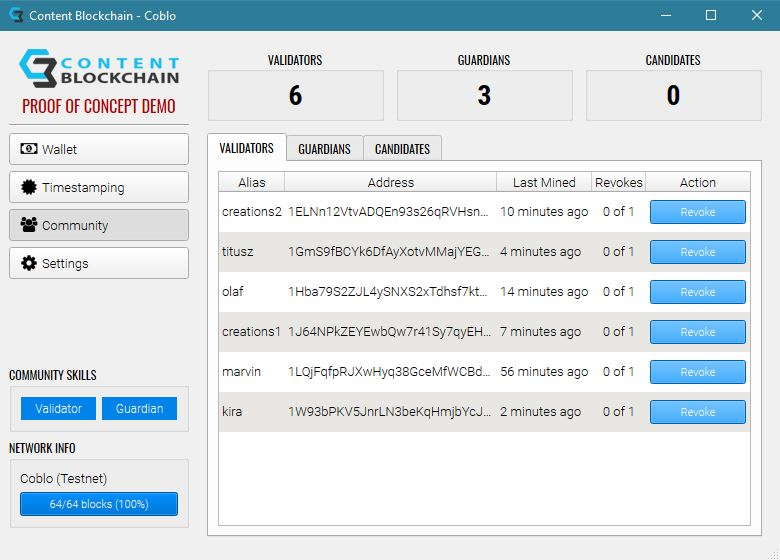
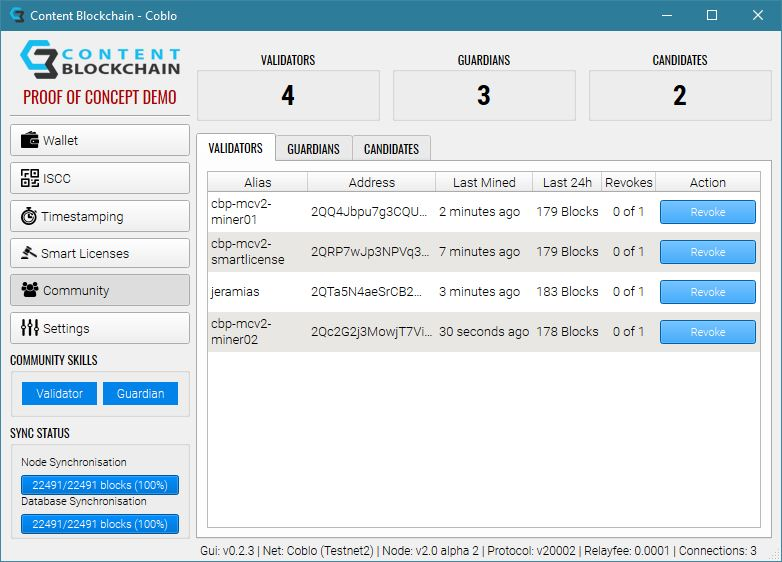
Update readme with new screenshots and feature descriptions. Up version.

diff --git a/setup.py b/setup.py
@@ -73,7 +73,7 @@ executables = [
 
 setup(
     name='Coblo',
-    version='0.3.0',
+    version='0.9.0',
     description='Content Blockchain Demo',
     options=options,
     executables=executables

diff --git a/README.md b/README.md
@@ -1,4 +1,4 @@
-# Content Blockchain GUI Prototype
+# Content Blockchain GUI Prototype v0.9.0
 
 [![Build status](https://ci.appveyor.com/api/projects/status/oue3ndgwshvc9l4e/branch/develop?svg=true)](https://ci.appveyor.com/project/alemenke/gui-demo/branch/develop)
 
@@ -18,6 +18,8 @@ and participate in testing the plattform. It allows you to:
 - test the experimental voting based consensus
 - send and receive native blockchain coins
 - timestamp content on the blockchain
+- search, create and register ISCC content identifiers
+- send and receive smart license tokens
 
 An installable version is currently available for 64-Bit Windows.
 You can download it [here](https://github.com/coblo/gui-demo/releases/download/v0.2.1/Coblo-0.2.1-win.msi).
@@ -33,18 +35,37 @@ Please report any issues at [https://github.com/coblo/gui-demo/issues](https://g
 **Wallet**
 
 Content is registered via transactions that are replicated and stored on the
-blockchain. Infrastructure providers are rewarded with tokens for their 
-services. The wallet screen shows your token balance and transaction history.
-You may exchange tokens with other participants.
+blockchain. Infrastructure providers are rewarded with native currency (CBL) 
+for their services. The wallet screen shows your balance and transaction 
+history. You may exchange CBL with other participants.
+
+<img align="left" width="150" src="docs/screenshot_iscc.jpg?raw=true">
+
+**ISCC**
+
+The [ISCC](http://iscc.codes) is an open and decentralized digital media 
+identifier. You can search for content registered with an ISCC and 
+generate/register new ISCCs for text  and image content. When generating a new 
+ISCC you will also see if your content or similar content has been registered 
+before.
+
+<img align="left" width="150" src="docs/screenshot_smart_license.jpg?raw=true">
+
+**Smart Licenses**
+
+Here you can send an recieve smart license tokens. These are custom tokens
+that allow you to own and resell a license as if it were a physical object.
+Smart Licenses and corresponding tokens can be generated with our 
+[Smart License Web Demo](https://smartlicense.coblo.net/).
+
 
 <img align="left" width="150" src="docs/screenshot_timestamp.jpg?raw=true">
 
 **Timestamping**
 
-A minimal demonstration of content timestamping. Here you can create, search
-and optionally register a unique fingerprint (SHA256 hash) of any document or
-file. This will be extended to demonstrate content registration with 
-[ISCC codes](http://iscc.codes/ "International Standard Content Code")
+A minimal demonstration of simple content timestamping. Here you can create, 
+search and optionally register a unique cryptographic fingerprint (SHA256 hash)
+of any document or file.
 
 
 <img align="left" width="150" src="docs/screenshot_community.jpg?raw=true">
